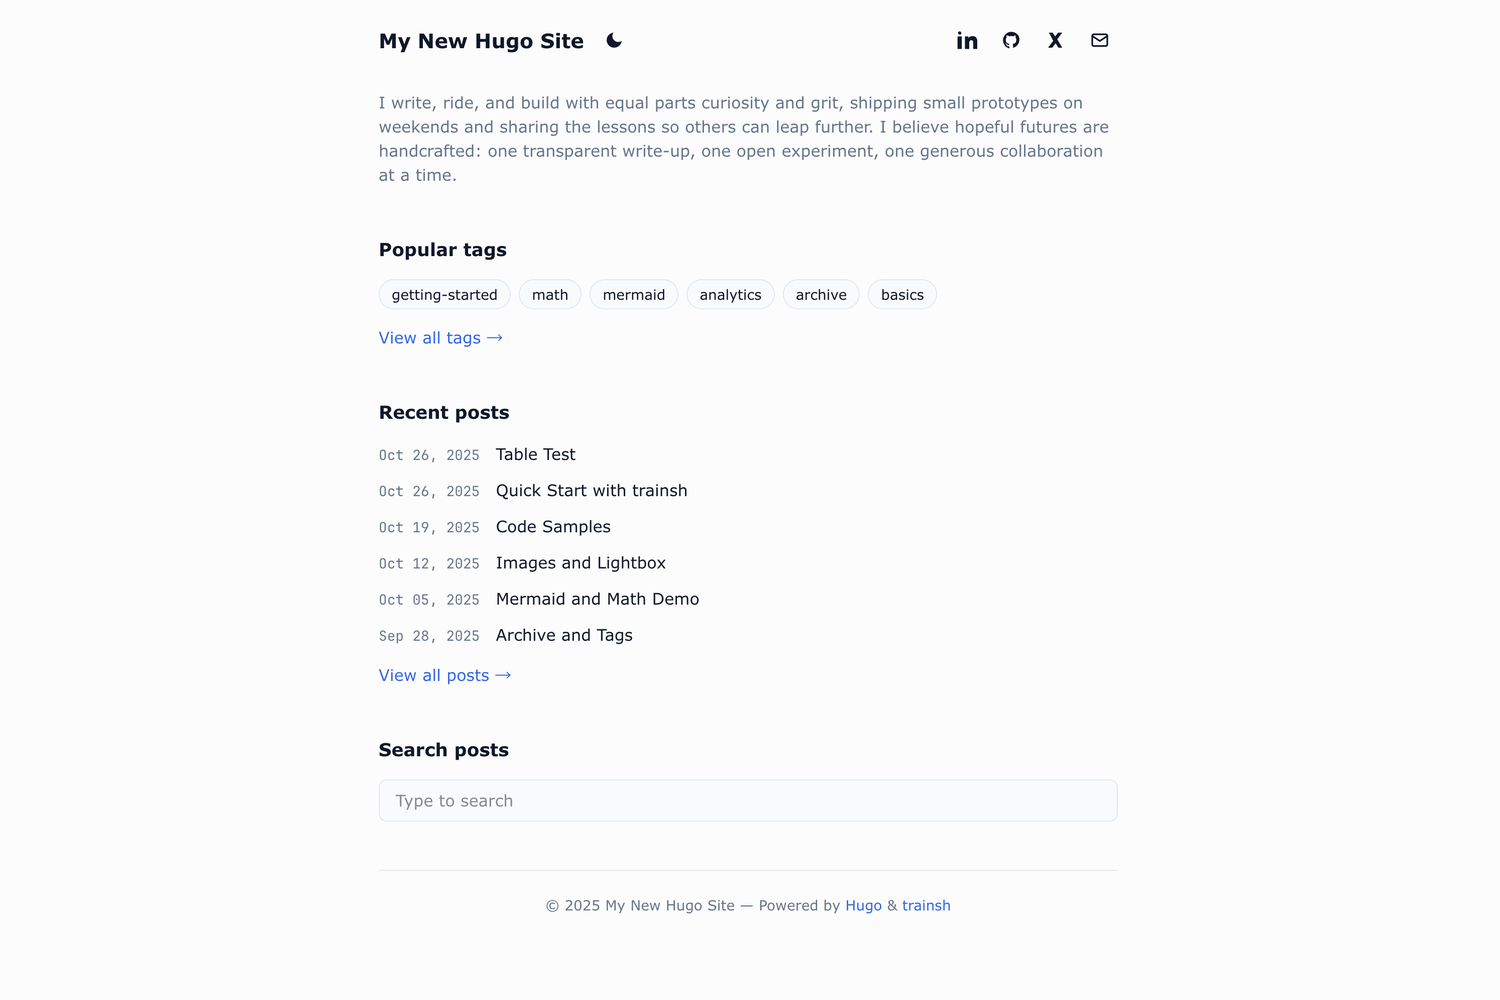
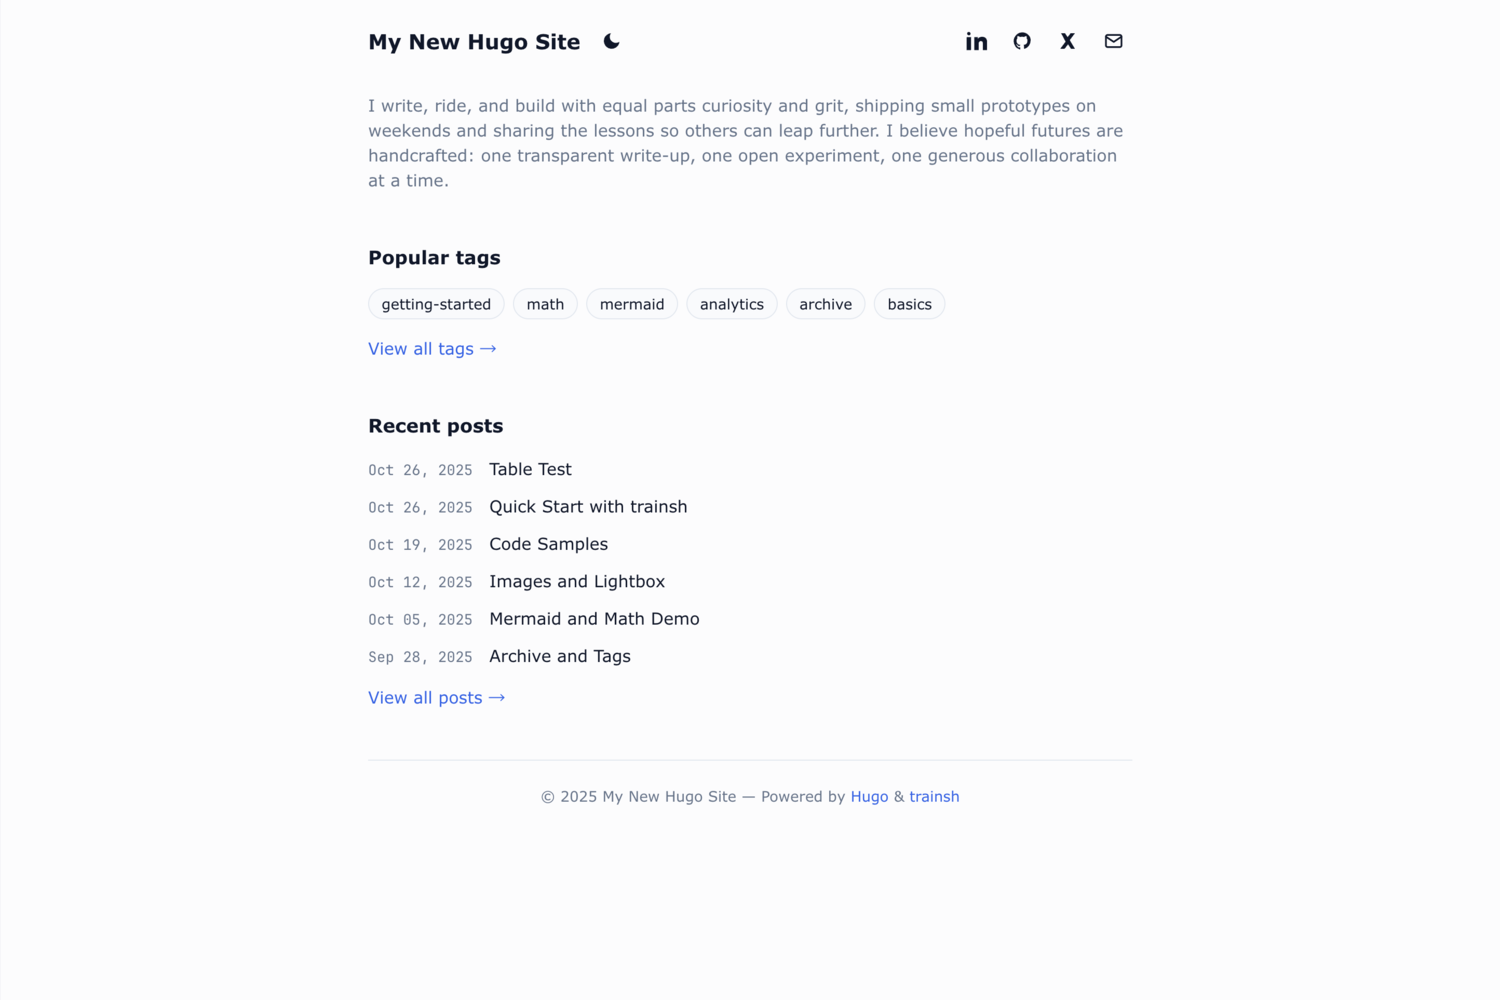
Refactor archive search functionality and enhance result rendering

diff --git a/assets/js/main.js b/assets/js/main.js
@@ -93,7 +93,7 @@ document.addEventListener('DOMContentLoaded', () => {
     });
   }
 
-  // Archive/Home search wiring
+  // Archive search wiring
   const searchInput = document.getElementById('archive-search');
   const groupsEl = document.getElementById('archive-groups');
   const resultsEl = document.getElementById('archive-results');
@@ -101,28 +101,167 @@ document.addEventListener('DOMContentLoaded', () => {
     let fuseInstance = null;
     let indexData = null;
 
-    const renderResults = (items) => {
+    const escapeHtml = (value) => String(value)
+      .replace(/&/g, '&amp;')
+      .replace(/</g, '&lt;')
+      .replace(/>/g, '&gt;')
+      .replace(/"/g, '&quot;')
+      .replace(/'/g, '&#39;');
+
+    const collectMatchedLines = ({ item, matches }, query) => {
+      const lines = new Set();
+
+      const safeQuery = String(query || '').trim().toLowerCase();
+      const queryTerms = safeQuery.length ? safeQuery.split(/\s+/).filter(Boolean) : [];
+
+      const normalizeSnippetLine = (line) => {
+        let out = String(line || '').trim();
+        if (!out) return '';
+        if (out === '```') return '';
+        out = out
+          .replace(/^#{1,6}\s+/, '')
+          .replace(/^\s*([-*+]|\d+\.)\s+/, '')
+          .replace(/^>\s+/, '')
+          .replace(/!\[([^\]]*)\]\([^)]+\)/g, '$1')
+          .replace(/\[([^\]]+)\]\([^)]+\)/g, '$1')
+          .replace(/`([^`]+)`/g, '$1')
+          .trim();
+        return out;
+      };
+
+      const raw = typeof item.raw === 'string' ? item.raw.replace(/\r\n/g, '\n') : '';
+      const content = typeof item.content === 'string' ? item.content.replace(/\r\n/g, '\n') : '';
+      const summary = typeof item.summary === 'string' ? item.summary.replace(/\r\n/g, '\n') : '';
+
+      if (raw && queryTerms.length) {
+        raw.split('\n').forEach((line) => {
+          const cleaned = normalizeSnippetLine(line);
+          if (!cleaned) return;
+          const lower = cleaned.toLowerCase();
+          const matchesPhrase = safeQuery.length ? lower.includes(safeQuery) : false;
+          const matchesTerms = queryTerms.length ? queryTerms.every((term) => lower.includes(term)) : false;
+          if (matchesPhrase || matchesTerms) {
+            lines.add(cleaned);
+          }
+        });
+      }
+
+      const matchArr = Array.isArray(matches) ? matches : [];
+      const contentMatches = matchArr.filter((m) => m && m.key === 'content' && Array.isArray(m.indices));
+
+      contentMatches.forEach((m) => {
+        const value = typeof m.value === 'string' ? m.value.replace(/\r\n/g, '\n') : content;
+        if (!value) return;
+        m.indices.forEach((pair) => {
+          if (!Array.isArray(pair) || pair.length < 2) return;
+          const startIndex = pair[0];
+          const endIndex = pair[1];
+          if (typeof startIndex !== 'number' || typeof endIndex !== 'number') return;
+          const lineStartIdx = value.lastIndexOf('\n', startIndex);
+          const lineStart = lineStartIdx === -1 ? 0 : lineStartIdx + 1;
+          const lineEndIdx = value.indexOf('\n', endIndex + 1);
+          const lineEnd = lineEndIdx === -1 ? value.length : lineEndIdx;
+          const line = normalizeSnippetLine(value.slice(lineStart, lineEnd));
+          if (line) lines.add(line);
+        });
+      });
+
+      if (lines.size === 0 && content && queryTerms.length) {
+        content.split(/\n+/).forEach((line) => {
+          const trimmed = normalizeSnippetLine(line);
+          if (!trimmed) return;
+          const lower = trimmed.toLowerCase();
+          if (queryTerms.every((term) => lower.includes(term))) {
+            lines.add(trimmed);
+          }
+        });
+      }
+
+      if (lines.size === 0 && summary && queryTerms.length) {
+        summary.split(/\n+/).forEach((line) => {
+          const trimmed = normalizeSnippetLine(line);
+          if (!trimmed) return;
+          const lower = trimmed.toLowerCase();
+          if (queryTerms.every((term) => lower.includes(term))) {
+            lines.add(trimmed);
+          }
+        });
+      }
+
+      return Array.from(lines);
+    };
+
+    const renderResults = (items, query) => {
       if (!Array.isArray(items)) return;
       if (items.length === 0) {
-        resultsEl.innerHTML = '<p>No results</p>';
+        resultsEl.innerHTML = '<p class="text-[var(--color-muted)]">No results</p>';
         return;
       }
-      const html = items.map((r) => {
-        const item = r.item || r; // support raw array or Fuse result
-        const title = item.title || '';
-        const date = item.date || '';
-        const author = item.author || '';
-        const link = item.permalink || '#';
-        const summary = item.summary || '';
+
+      const normalized = items.map((r) => ({
+        item: r && r.item ? r.item : r,
+        matches: r && Array.isArray(r.matches) ? r.matches : []
+      })).filter((x) => x.item);
+
+      const grouped = new Map();
+      normalized.forEach((r) => {
+        const year = r.item.year || (typeof r.item.dateISO === 'string' ? r.item.dateISO.slice(0, 4) : '');
+        if (!grouped.has(year)) grouped.set(year, []);
+        grouped.get(year).push(r);
+      });
+
+      const years = Array.from(grouped.keys())
+        .filter(Boolean)
+        .sort((a, b) => (Number(b) || 0) - (Number(a) || 0));
+
+      const groupHtml = years.map((year) => {
+        const groupItems = grouped.get(year) || [];
+        groupItems.sort((a, b) => String(b.item.dateISO || '').localeCompare(String(a.item.dateISO || '')));
+
+        const itemsHtml = groupItems.map((r) => {
+          const title = r.item.title || '';
+          const dateShort = r.item.dateShort || r.item.date || '';
+          const dateISO = r.item.dateISO || '';
+          const link = r.item.permalink || '#';
+          const matchedLines = collectMatchedLines(r, query);
+
+          const snippetHtml = matchedLines.length
+            ? `
+              <div class="flex gap-4 mt-1">
+                <span aria-hidden="true" class="text-sm text-[var(--color-muted)] font-mono shrink-0 opacity-0">${escapeHtml(dateShort)}</span>
+                <div>
+                  ${matchedLines.map((line) => `<p class="text-sm text-[var(--color-muted)] font-mono break-all">${escapeHtml(line)}</p>`).join('')}
+                </div>
+              </div>
+            `
+            : '';
+
+          return `
+            <li>
+              <div class="flex gap-4 items-baseline">
+                <time class="text-sm text-[var(--color-muted)] font-mono shrink-0" datetime="${escapeHtml(dateISO)}">
+                  ${escapeHtml(dateShort)}
+                </time>
+                <a href="${escapeHtml(link)}" class="hover:text-[var(--color-accent)] transition-colors truncate">
+                  ${escapeHtml(title)}
+                </a>
+              </div>
+              ${snippetHtml}
+            </li>
+          `;
+        }).join('');
+
         return `
-          <article class="archive-result">
-            <div class="meta-line"><time class="date">${date}</time>${author ? ` by <span class="author">${author}</span>` : ''}</div>
-            <h3><a href="${link}">${title}</a></h3>
-            <p class="summary">${summary}</p>
-          </article>
+          <div class="mb-8">
+            <h2 class="text-xl font-semibold mb-4 text-[var(--color-muted)]">${escapeHtml(year)}</h2>
+            <ul class="space-y-2">
+              ${itemsHtml}
+            </ul>
+          </div>
         `;
       }).join('');
-      resultsEl.innerHTML = html;
+
+      resultsEl.innerHTML = groupHtml;
     };
 
     const showGroups = () => {
@@ -153,6 +292,8 @@ document.addEventListener('DOMContentLoaded', () => {
       if (!Array.isArray(indexData)) return null;
       const options = {
         includeScore: true,
+        includeMatches: true,
+        findAllMatches: true,
         ignoreLocation: true,
         minMatchCharLength: 2,
         threshold: 0.3,
@@ -179,7 +320,7 @@ document.addEventListener('DOMContentLoaded', () => {
       const fuse = await initFuse();
       if (!fuse) return;
       const results = fuse.search(q).slice(0, 50);
-      renderResults(results);
+      renderResults(results, q);
       showResults();
     });
 

diff --git a/layouts/archive/list.html b/layouts/archive/list.html
@@ -3,6 +3,10 @@
   <h1 class="text-3xl font-bold">{{ .Title }}</h1>
 </header>
 
+<section class="mb-8">
+  <input id="archive-search" type="search" placeholder="{{ i18n "type_to_search" }}" aria-label="{{ i18n "search_posts" }}" autocomplete="off" class="w-full px-4 py-2 bg-[var(--color-surface)] border border-[var(--color-border)] rounded-lg focus:outline-none focus:border-[var(--color-accent)] transition-colors">
+</section>
+
 {{ $sections := default (slice "posts") site.Params.mainSections }}
 {{ $pages := where site.RegularPages "Section" "in" $sections }}
 
@@ -26,5 +30,5 @@
   {{ end }}
 </section>
 
-<section id="archive-results" hidden class="space-y-4"></section>
+<section id="archive-results" hidden></section>
 {{ end }}

diff --git a/layouts/home.html b/layouts/home.html
@@ -58,9 +58,4 @@
   </section>
   {{ end }}
 
-  <section>
-    <h2 class="text-lg font-semibold mb-4">{{ i18n "search_posts" }}</h2>
-    <input id="archive-search" type="search" placeholder="{{ i18n "type_to_search" }}" autocomplete="off" class="w-full px-4 py-2 bg-[var(--color-surface)] border border-[var(--color-border)] rounded-lg focus:outline-none focus:border-[var(--color-accent)] transition-colors">
-    <section id="archive-results" hidden class="mt-4"></section>
-  </section>
 {{ end }}
